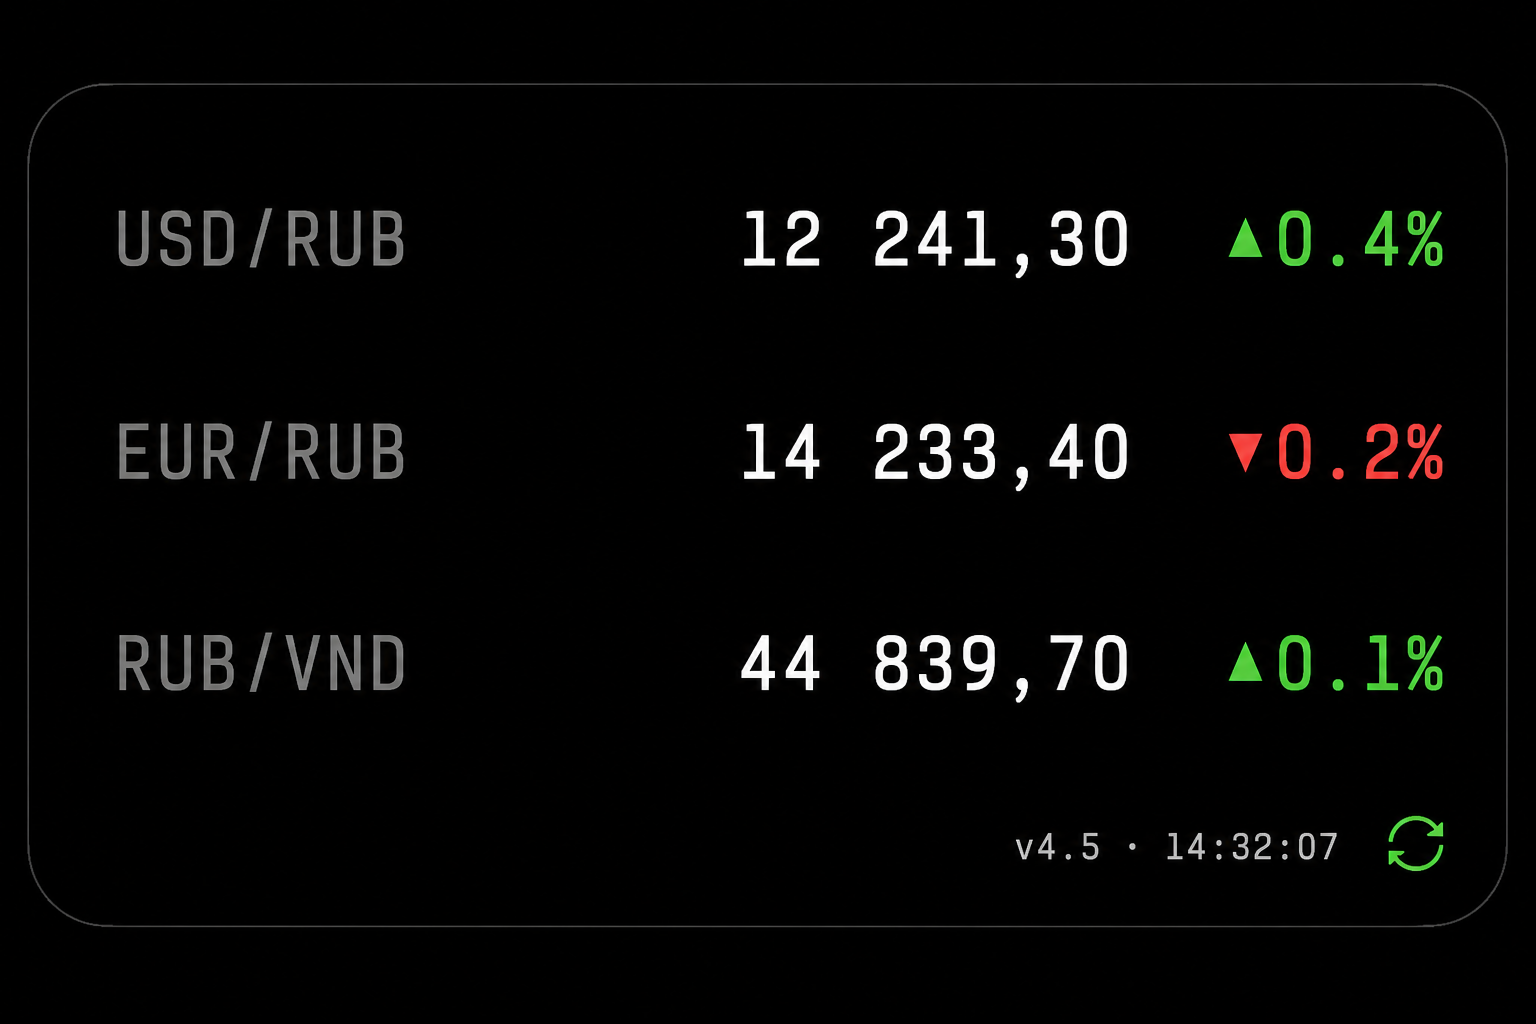
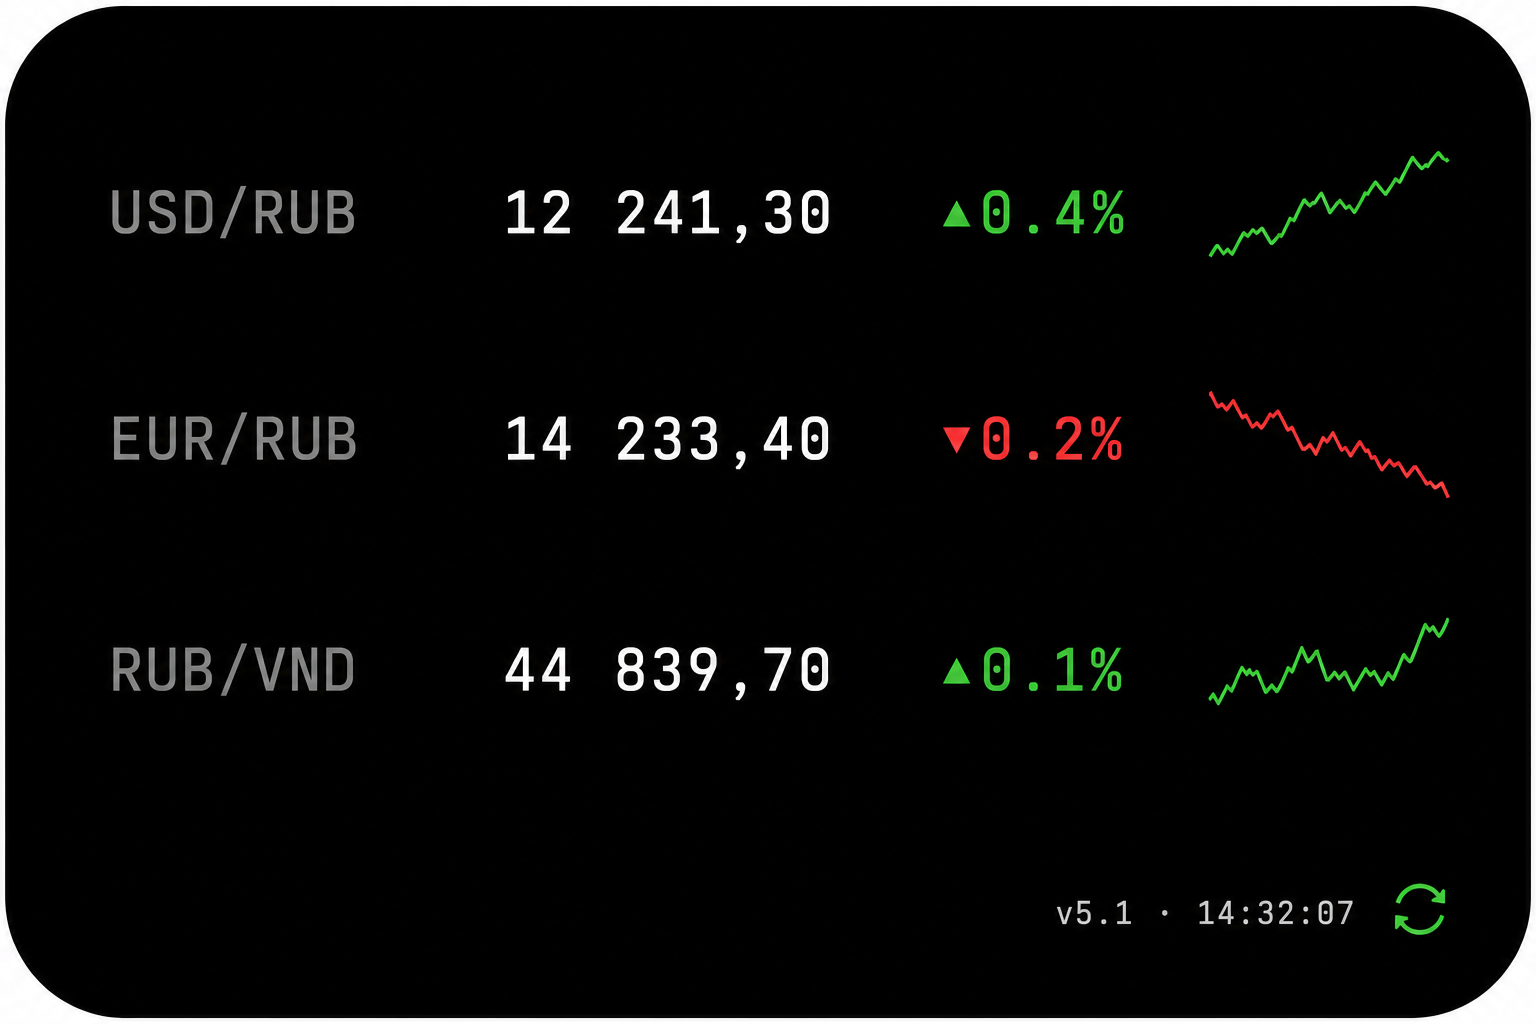
widget: fix oversized in-app preview, add per-row sparkline in ticker
Root cause of the screenshots showing a nearly full-screen, wildly
disproportionate preview (with a close/share sheet) after tapping Play
in-app: the interactive code path only called Script.setWidget() and
never called widget.presentSmall/Medium/Large(). Without an explicit
present call, Scriptable falls back to its own generic 'quick look'
preview, which renders the same font point sizes inside a
much-larger-than-actual container -- purely a missing API call, not a
fundamental design limitation. The real Home Screen tile and the Add
Widget gallery card were never affected by this; only the in-app Play
preview was.

- Call previewWidget.presentMedium() after building the interactive
  preview so it renders at the real medium-widget scale.
- Ticker style: show the compact sparkline next to the change percent
  on every row (medium/large), not just the first pair on large, for
  a more finished look closer to the reference mockup.
- Regenerate mockups/ticker.png to reflect per-row sparklines.
- Bump CORE_VERSION to 5.1.
- Add presentSmall/Medium/Large/ExtraLarge stubs to the Node test
  harness (setting __lastWidget like Script.setWidget did) so
  existing interactive-path tests keep working; broaden
  testTickerSparkline to check both medium and large (61 tests
  passing).
- README: new v5.1 section explaining the preview-scale root cause.

diff --git a/projects/currency-converter-widget/CurrencyConverterCore.js b/projects/currency-converter-widget/CurrencyConverterCore.js
@@ -5,7 +5,7 @@ const MARKER = "CURRENCY_WIDGET_V1";
 // Показывается в меню — так сразу видно, подтянулась ли на телефон
 // действительно последняя версия кода (см. README → "Как проверить, что
 // обновление подтянулось"). Увеличивать при каждом заметном изменении.
-const CORE_VERSION = "5.0";
+const CORE_VERSION = "5.1";
 
 // Пары по умолчанию, если для виджета не задан Parameter.
 // Format: [{ from, to }]
@@ -582,23 +582,24 @@ function createTickerWidget(pairs, cache, amount, history) {
 
     row.addSpacer();
 
-    const showSparkline = i === 0 && family === "large";
-    if (showSparkline) {
-      const spark = sparklineImage(history, pair.from, pair.to, 48, 20, new Color("#34C759"));
-      if (spark) {
-        const imgEl = row.addImage(spark);
-        imgEl.imageSize = new Size(48, 20);
-      } else if (change) {
-        const changeText = row.addText(change.text);
-        changeText.font = Font.mediumMonospacedSystemFont(11);
-        changeText.textColor = change.color;
-        changeText.lineLimit = 1;
-      }
-    } else if (change) {
+    if (change) {
       const changeText = row.addText(change.text);
       changeText.font = Font.mediumMonospacedSystemFont(11);
       changeText.textColor = change.color;
       changeText.lineLimit = 1;
+    }
+
+    // Компактный спарклайн рядом с % — на каждой строке, а не только у
+    // первой пары на large, чтобы каждый ряд выглядел завершённо, как
+    // отдельный тикер, а не только избранная строка.
+    if (family !== "small") {
+      const sparkColor = change ? change.color : new Color("#34C759");
+      const spark = sparklineImage(history, pair.from, pair.to, 30, 14, sparkColor);
+      if (spark) {
+        row.addSpacer(6);
+        const imgEl = row.addImage(spark);
+        imgEl.imageSize = new Size(30, 14);
+      }
     }
   });
 
@@ -944,7 +945,14 @@ async function main() {
       refreshedSettings.style || DEFAULT_STYLE
     );
   }
-  Script.setWidget(previewWidget);
+  // Без явного presentSmall/Medium/Large() Scriptable при ручном ▶ Play
+  // показывает превью в собственном "быстром просмотре" сильно увеличенным
+  // и непропорциональным — размер и шрифты там не соответствуют настоящей
+  // маленькой плитке на Home Screen. Явно просим показать превью в
+  // РЕАЛЬНОМ масштабе того размера, на который рассчитан контент (medium —
+  // тот же размер, что используется по умолчанию для расчёта строк/шрифтов
+  // выше, когда config.widgetFamily не задан вне контекста виджета).
+  await previewWidget.presentMedium();
 }
 
 module.exports = { main, MARKER, CORE_VERSION };

diff --git a/projects/currency-converter-widget/README.md b/projects/currency-converter-widget/README.md
@@ -19,7 +19,7 @@ Home Screen виджет на **Scriptable** (см. `notes/currency_converter_op
 1. Открой приложение **Scriptable** (не виджет, а само приложение)
 2. Найди скрипт `CurrencyConverter` в списке и нажми на него → ▶ **Play**
 3. Должно открыться меню — в заголовке будет написано **«Конвертер валют · vX.X»**
-4. Сверь номер версии с тем, что в этом README (сейчас `5.0`) — если меньше,
+4. Сверь номер версии с тем, что в этом README (сейчас `5.1`) — если меньше,
    значит обновление ещё не подтянулось (проверь сеть и попробуй ▶ Play ещё раз)
 5. После этого либо подожди системной перерисовки виджета, либо удали и
    заново добавь его на Home Screen — так гарантированно перерисуется сразу
@@ -122,6 +122,30 @@ Scriptable) не может заставить iOS перерисовывать 
 код, и это будет видно сразу по сравнению один-в-один, а не по словесному
 описанию.
 
+### v5.1: превью при ручном ▶ Play был непропорционально огромным — это не баг дизайна, а недостающий вызов `presentMedium()`
+
+Если после ▶ Play в приложении вместо аккуратной маленькой плитки открывался
+почти полноэкранный экран с текстом на весь экран, крестиком закрытия и
+кнопкой «Поделиться» вверху — это не баг вёрстки виджета и не ограничение
+задачи, а конкретная недостающая строчка кода. Без явного вызова
+`widget.presentSmall()/presentMedium()/presentLarge()` Scriptable при ручном
+запуске сама показывает содержимое виджета в собственном увеличенном
+«быстром просмотре», который **не передаёт настоящий масштаб** плитки на
+Home Screen — шрифты там нарисованы в тех же самых "поинтах", что и на
+реальной маленькой плитке, но контейнер вокруг них растянут на весь экран,
+поэтому всё выглядит гигантским и непропорциональным.
+
+Исправлено: теперь после ▶ Play явно вызывается `previewWidget.presentMedium()`
+— превью показывается в реальном масштабе виджета среднего размера, точно
+как он будет выглядеть на Home Screen. Настоящая плитка на Home Screen (и
+карточка в галерее выбора виджета при добавлении) всегда были в правильном
+масштабе — непропорциональным был только этот один экран внутриприложенного
+превью.
+
+Заодно у стиля «Тикер» спарклайн теперь на каждой строке, а не только у
+первой пары на large-виджете — ближе к референсу с несколькими рядами,
+каждый с собственным мини-графиком.
+
 Отдельно про баг с прозрачностью, который был в одной из версий: `ListWidget`
 на Home Screen [по умолчанию должен быть непрозрачным](https://docs.scriptable.app/listwidget/#backgroundcolor),
 а я явно ставил `Color.clear()`, из-за чего цветные строки сливались с обоями
@@ -180,8 +204,9 @@ Scriptable) не может заставить iOS перерисовывать 
 - Чёрный фон `#000000`, моноширинный шрифт — стиль биржевого терминала
 - Слева тускло-серым — пара (`USD/RUB`), в центре крупно белым — только
   результат конвертации (без исходной суммы), справа — стрелка с %
-  изменения; у первой пары на large-виджете справа вместо стрелки —
-  мини-график (спарклайн) изменения курса за собранную историю
+  изменения и рядом с ней компактный мини-график (спарклайн) изменения
+  курса за собранную историю — на **каждой** строке (`medium`/`large`), а
+  не только у первой пары, как было раньше
 
 ### Тап-зоны (кроме `small`)
 
